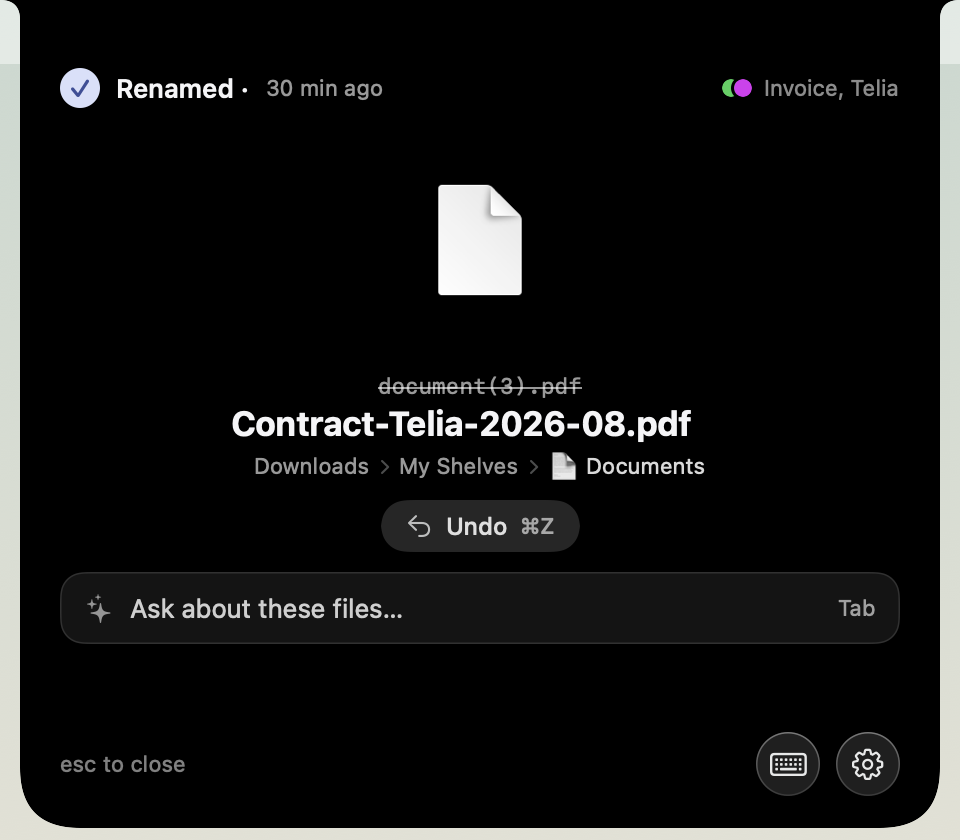
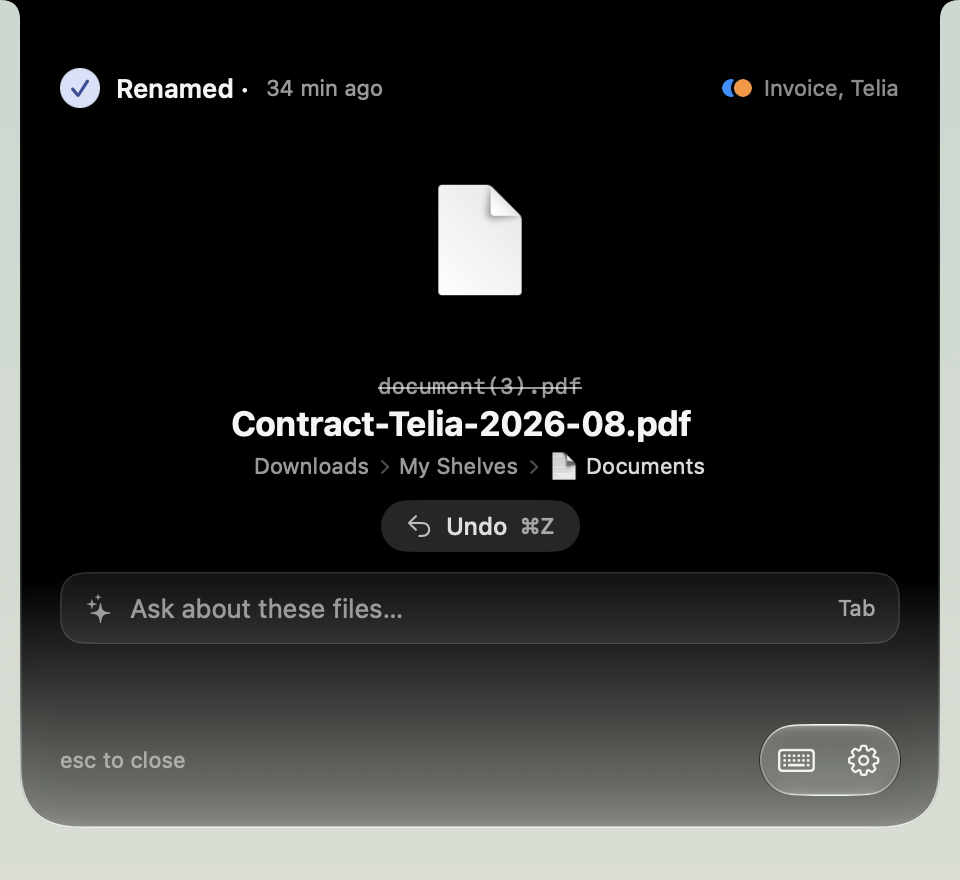
README: real-glass island and Sorting screenshots, KANSO_CAPTURE/BACKDROP/NOTICE capture hooks

diff --git a/app/Sources/Kanso/Shell.swift b/app/Sources/Kanso/Shell.swift
@@ -267,6 +267,13 @@ final class AppDelegate: NSObject, NSApplicationDelegate {
             m.startSmartEject()
             Island.shared.relayout()
             NSApp.mainMenu = mainMenu()
+            if ProcessInfo.processInfo.environment["KANSO_BACKDROP"] != nil { Self.backdrop() }
+            if let n = ProcessInfo.processInfo.environment["KANSO_NOTICE"] {
+                DispatchQueue.main.asyncAfter(deadline: .now() + 1) {
+                    if n == "reading" { Island.shared.show(.reading("Scan_0044.pdf")) }
+                    else if let r = m.actions.last(where: { $0.kind == .renamed }) { Island.shared.show(.renamed(r)) }
+                }
+            }
             if !m.settings.onboarded { Windows.shared.showOnboarding() }
             else if ProcessInfo.processInfo.arguments.contains("--show") {
                 let args = ProcessInfo.processInfo.arguments
@@ -274,8 +281,34 @@ final class AppDelegate: NSObject, NSApplicationDelegate {
                 Windows.shared.showMain(page)
             }
             if ProcessInfo.processInfo.arguments.contains("--popover") { DispatchQueue.main.asyncAfter(deadline: .now() + 1) { StatusItem.shared.show() } }
+            // KANSO_CAPTURE=file.png[:height] grabs the top of the screen (our own windows, glass included) after 3 s and quits; for README shots.
+            if let spec = ProcessInfo.processInfo.environment["KANSO_CAPTURE"] {
+                DispatchQueue.main.asyncAfter(deadline: .now() + (Double(ProcessInfo.processInfo.environment["KANSO_DELAY"] ?? "") ?? 3)) { Self.capture(spec); NSApp.terminate(nil) }
+            }
             if ProcessInfo.processInfo.arguments.contains("--island") { DispatchQueue.main.asyncAfter(deadline: .now() + 1) { Island.shared.toggleShortcut() } }
         }
+    }
+
+    /// KANSO_BACKDROP: an opaque wallpaper-like window behind ours, so README shots never include the desktop.
+    static func backdrop() {
+        guard let screen = NSScreen.main else { return }
+        let w = NSWindow(contentRect: screen.frame, styleMask: [.borderless], backing: .buffered, defer: false)
+        w.isReleasedWhenClosed = false
+        w.ignoresMouseEvents = true
+        if ProcessInfo.processInfo.environment["KANSO_BACKDROP"] == "island" { w.level = .mainMenu }   // also hides the menu bar; the island sits above (statusBar)
+        w.contentView = NSHostingView(rootView: LinearGradient(colors: [Color(nsColor: NSColor(hex: 0xC9D8CF)), Color(nsColor: NSColor(hex: 0xE9E3D6))], startPoint: .top, endPoint: .bottom))
+        w.orderFrontRegardless()
+        backdropWindow = w
+    }
+    nonisolated(unsafe) static var backdropWindow: NSWindow?
+
+    static func capture(_ spec: String) {
+        let parts = spec.split(separator: ":").map(String.init)
+        guard let screen = NSScreen.main else { return }
+        let h = parts.count > 1 ? Double(parts[1]) ?? 400 : 400
+        let rect = CGRect(x: 0, y: 0, width: screen.frame.width, height: h)
+        guard let img = CGWindowListCreateImage(rect, .optionOnScreenOnly, kCGNullWindowID, [.bestResolution]) else { return }
+        try? NSBitmapImageRep(cgImage: img).representation(using: .png, properties: [:])?.write(to: URL(fileURLWithPath: parts[0]))
     }
 
     func applicationShouldHandleReopen(_ sender: NSApplication, hasVisibleWindows flag: Bool) -> Bool {

diff --git a/README.md b/README.md
@@ -28,6 +28,7 @@ Keeps `~/Downloads`, `~/Desktop` and `~/Documents` sorted without you thinking a
 ## Kanso app
 
 <p align="center"><img src="docs/assets/overview.png" width="720" alt="Overview"></p>
+<p align="center"><img src="docs/assets/sorting.png" width="720" alt="Sorting"></p>
 <p align="center">
   <img src="docs/assets/island-processing.png" width="300" alt="The island reading a file">
   <img src="docs/assets/island-renamed.png" width="300" alt="The island after a rename">
